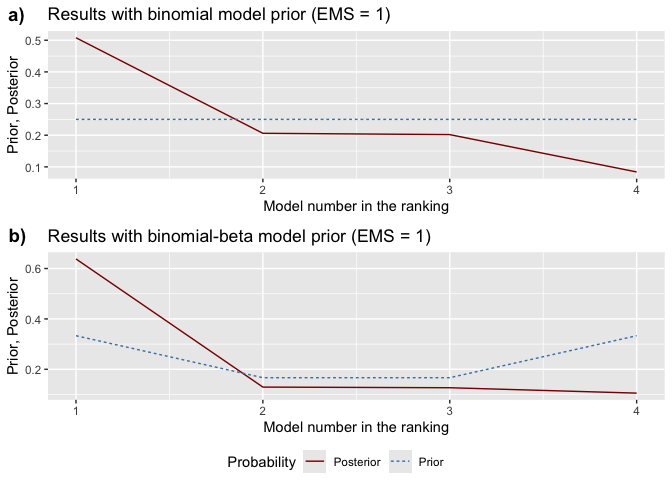
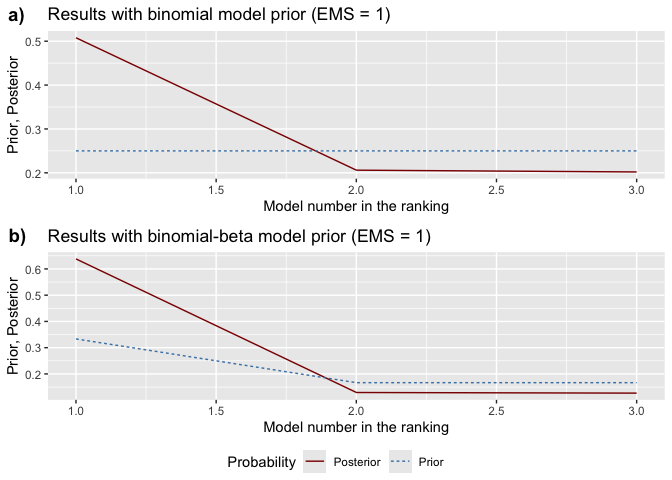
docs: change number of best and top models so it makes sense for small data frame

diff --git a/README.md b/README.md
@@ -182,8 +182,7 @@ parameter estimate is positive.
 
 ``` r
 # Plot prior vs. posterior model probabilities
-pmp_graphs <- bdsm::model_pmp(bma_results, top = 10)  # Show top 10 models
-#> The number of the best models (top) cannot be higher than the total number of models. We set top = R (total number of regressors) and continiue :)
+pmp_graphs <- bdsm::model_pmp(bma_results, top = 3)  # Show top 3 models
 ```
 
 <img src="man/figures/README-unnamed-chunk-6-1.png" width="100%" />
@@ -203,32 +202,31 @@ models:
 
 ``` r
 # Retrieve the 5 best models according to binomial prior
-top5_binom <- bdsm::best_models(bma_results, criterion = 1, best = 5)
-#> best > M - number of best models cannot be bigger than the total number of models. We set best = M and continiue :)
+top3_binom <- bdsm::best_models(bma_results, criterion = 1, best = 3)
 ```
 
 <img src="man/figures/README-unnamed-chunk-7-1.png" width="100%" />
 
 ``` r
 
-# Print the inclusion matrix for each of the top 5 models
-top5_binom[[1]]
-#>         'No. 1' 'No. 2' 'No. 3' 'No. 4'
-#> gdp_lag   1.000   1.000   1.000   1.000
-#> ish       1.000   0.000   1.000   0.000
-#> sed       1.000   1.000   0.000   0.000
-#> PMP       0.508   0.206   0.202   0.084
+# Print the inclusion matrix for each of the top 3 models
+top3_binom[[1]]
+#>         'No. 1' 'No. 2' 'No. 3'
+#> gdp_lag   1.000   1.000   1.000
+#> ish       1.000   0.000   1.000
+#> sed       1.000   1.000   0.000
+#> PMP       0.508   0.206   0.202
 
 # Retrieve robust standard errors in a knit-friendly table
-top5_binom[[6]]
+top3_binom[[6]]
 ```
 
-|  | ‘No. 1’ | ‘No. 2’ | ‘No. 3’ | ‘No. 4’ |
-|:---|:--:|:--:|:--:|:--:|
-| gdp_lag | 1.079 (0.275)\*\*\* | 1.126 (0.151)\*\*\* | 1.027 (0.193)\*\*\* | 1.075 (0.083)\*\*\* |
-| ish | 0.119 (0.086)\*\*\* | NA | 0.121 (0.082)\*\*\* | NA |
-| sed | -0.06 (0.126) | -0.077 (0.128) | NA | NA |
-| PMP | 0.508 | 0.206 | 0.202 | 0.084 |
+|         |       ‘No. 1’       |       ‘No. 2’       |       ‘No. 3’       |
+|:--------|:-------------------:|:-------------------:|:-------------------:|
+| gdp_lag | 1.079 (0.275)\*\*\* | 1.126 (0.151)\*\*\* | 1.027 (0.193)\*\*\* |
+| ish     | 0.119 (0.086)\*\*\* |         NA          | 0.121 (0.082)\*\*\* |
+| sed     |    -0.06 (0.126)    |   -0.077 (0.128)    |         NA          |
+| PMP     |        0.508        |        0.206        |        0.202        |
 
 ### Jointness Measures
 
